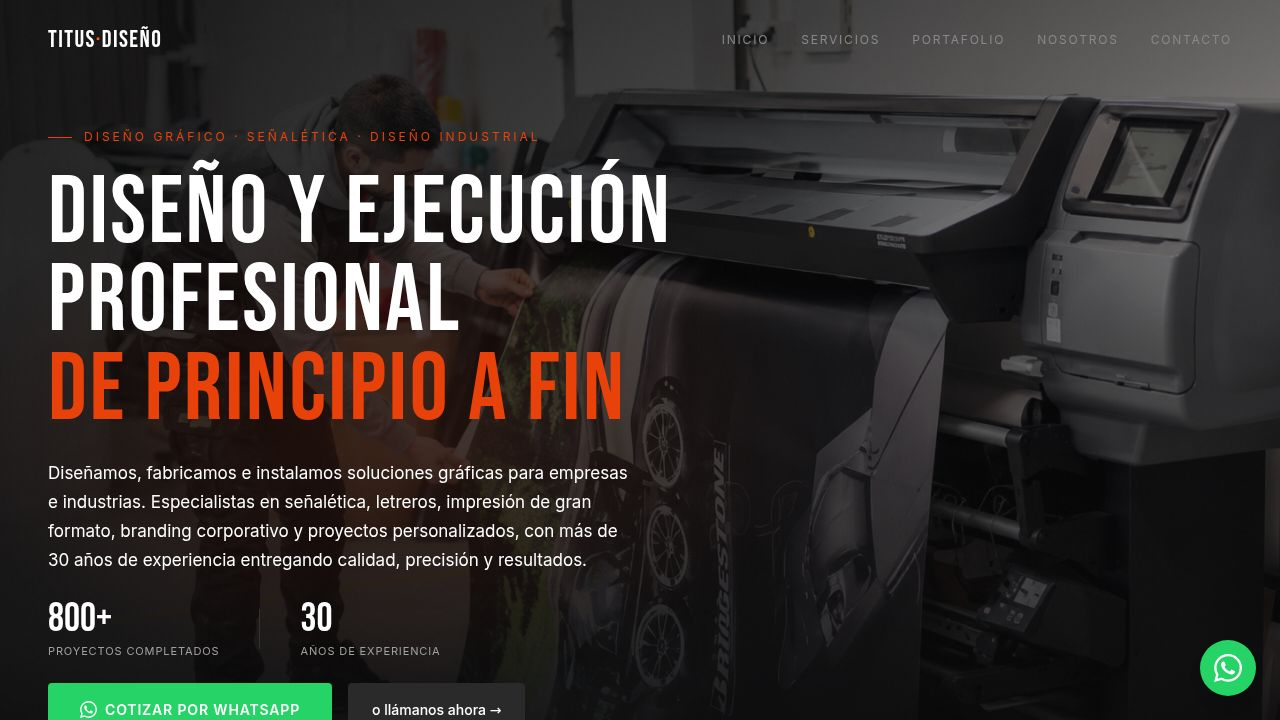
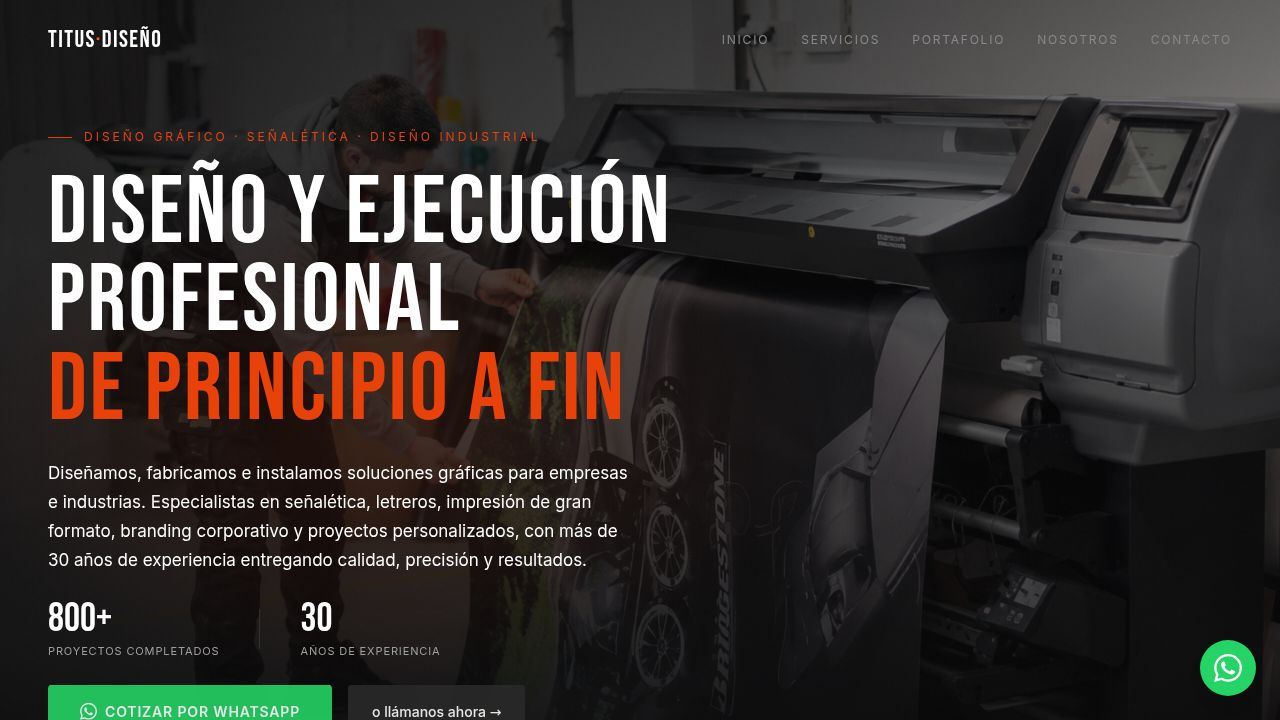
Update image component to load external images directly
Remove image proxy logic from SafeImage component and use Cloudinary URLs directly.

Replit-Commit-Author: Agent
Replit-Commit-Session-Id: a426e948-6885-4c15-93a4-a8786c5d791a
Replit-Commit-Checkpoint-Type: full_checkpoint
Replit-Commit-Event-Id: b65b495f-eb61-4e90-a5b1-dc375ee464f8
Replit-Commit-Screenshot-Url: https://storage.googleapis.com/screenshot-production-us-central1/4dd11589-84d7-413d-8713-68c8280b30c6/a426e948-6885-4c15-93a4-a8786c5d791a/AeVqPD9
Replit-Helium-Checkpoint-Created: true

Changed region(s): [[0.0312, 0.9472, 0.2812, 1.0], [0.2812, 0.9778, 0.4062, 1.0]]

diff --git a/artifacts/studio-site/src/components/SafeImage.tsx b/artifacts/studio-site/src/components/SafeImage.tsx
@@ -1,63 +1,9 @@
 import { useState, useEffect } from "react";
 
 /**
- * SafeImage — robust image loader for all platforms including WhatsApp,
- * Instagram, Facebook WebViews that block external CDNs.
- *
- * Strategy:
- * 1. For external URLs (Cloudinary, Picsum, Unsplash, etc.), route through
- *    our same-origin /api/images-proxy endpoint IMMEDIATELY. This avoids
- *    the "onerror never fires" problem in WebViews.
- * 2. For local URLs, use directly.
- * 3. If the proxy image also fails (rare), show a broken-img placeholder.
+ * SafeImage — simple image component that falls back to an invisible placeholder
+ * on failure, preserving layout without showing broken-image text.
  */
-
-function getProxiedUrl(src: string): string {
-  try {
-    const u = new URL(src);
-    // Already local → don't proxy
-    if (u.hostname === window.location.hostname) return src;
-    if (u.hostname === "localhost") return src;
-    if (u.hostname === "127.0.0.1") return src;
-    // Already our proxy ↔ don't double-proxy
-    if (u.pathname.startsWith("/api/images-proxy")) return src;
-    // Replit domains are local
-    if (u.hostname.includes("replit")) return src;
-  } catch {
-    // Not a valid URL (relative path) ↔ local
-    return src;
-  }
-  const base = import.meta.env.BASE_URL || "/";
-  const proxyBase = base === "/" ? "/api" : `${base}api`;
-  return `${proxyBase}/images-proxy?url=${encodeURIComponent(src)}`;
-}
-
-const EXTERNAL_IMAGE_DOMAINS = [
-  "res.cloudinary.com",
-  "picsum.photos",
-  "images.unsplash.com",
-  "unsplash.com",
-  "cdn.jsdelivr.net",
-  "i.imgur.com",
-  "imgur.com",
-  "cloudfront.net",
-  "s3.amazonaws.com",
-  "storage.googleapis.com",
-];
-
-function shouldProxyDirectly(src: string): boolean {
-  try {
-    const u = new URL(src);
-    if (u.hostname === window.location.hostname) return false;
-    if (u.hostname === "localhost") return false;
-    if (u.hostname === "127.0.0.1") return false;
-    if (u.pathname.startsWith("/api/images-proxy")) return false;
-    if (u.hostname.includes("replit")) return false;
-    return EXTERNAL_IMAGE_DOMAINS.some(d => u.hostname.includes(d));
-  } catch {
-    return false;
-  }
-}
 
 interface SafeImageProps extends Omit<React.ImgHTMLAttributes<HTMLImageElement>, "src"> {
   src: string;
@@ -65,31 +11,18 @@ interface SafeImageProps extends Omit<React.ImgHTMLAttributes<HTMLImageElement>,
 }
 
 export default function SafeImage({ src, alt, className, style, ...rest }: SafeImageProps) {
-  // For known external CDNs, go directly through proxy (no double request)
-  const initialSrc = shouldProxyDirectly(src) ? getProxiedUrl(src) : src;
-
-  const [currentSrc, setCurrentSrc] = useState(initialSrc);
-  const [triedProxy, setTriedProxy] = useState(shouldProxyDirectly(src));
+  const [currentSrc, setCurrentSrc] = useState(src);
   const [failed, setFailed] = useState(false);
 
   useEffect(() => {
-    const newInitial = shouldProxyDirectly(src) ? getProxiedUrl(src) : src;
-    setCurrentSrc(newInitial);
-    setTriedProxy(shouldProxyDirectly(src));
+    setCurrentSrc(src);
     setFailed(false);
   }, [src]);
 
   function handleError() {
-    if (!triedProxy) {
-      setTriedProxy(true);
-      setCurrentSrc(getProxiedUrl(src));
-    } else {
-      setFailed(true);
-    }
+    setFailed(true);
   }
 
-  // If failed after proxy fallback, render an invisible placeholder
-  // (keeps layout intact without showing broken-image text)
   if (failed) {
     return <div className={className} style={style} aria-hidden="true" />;
   }